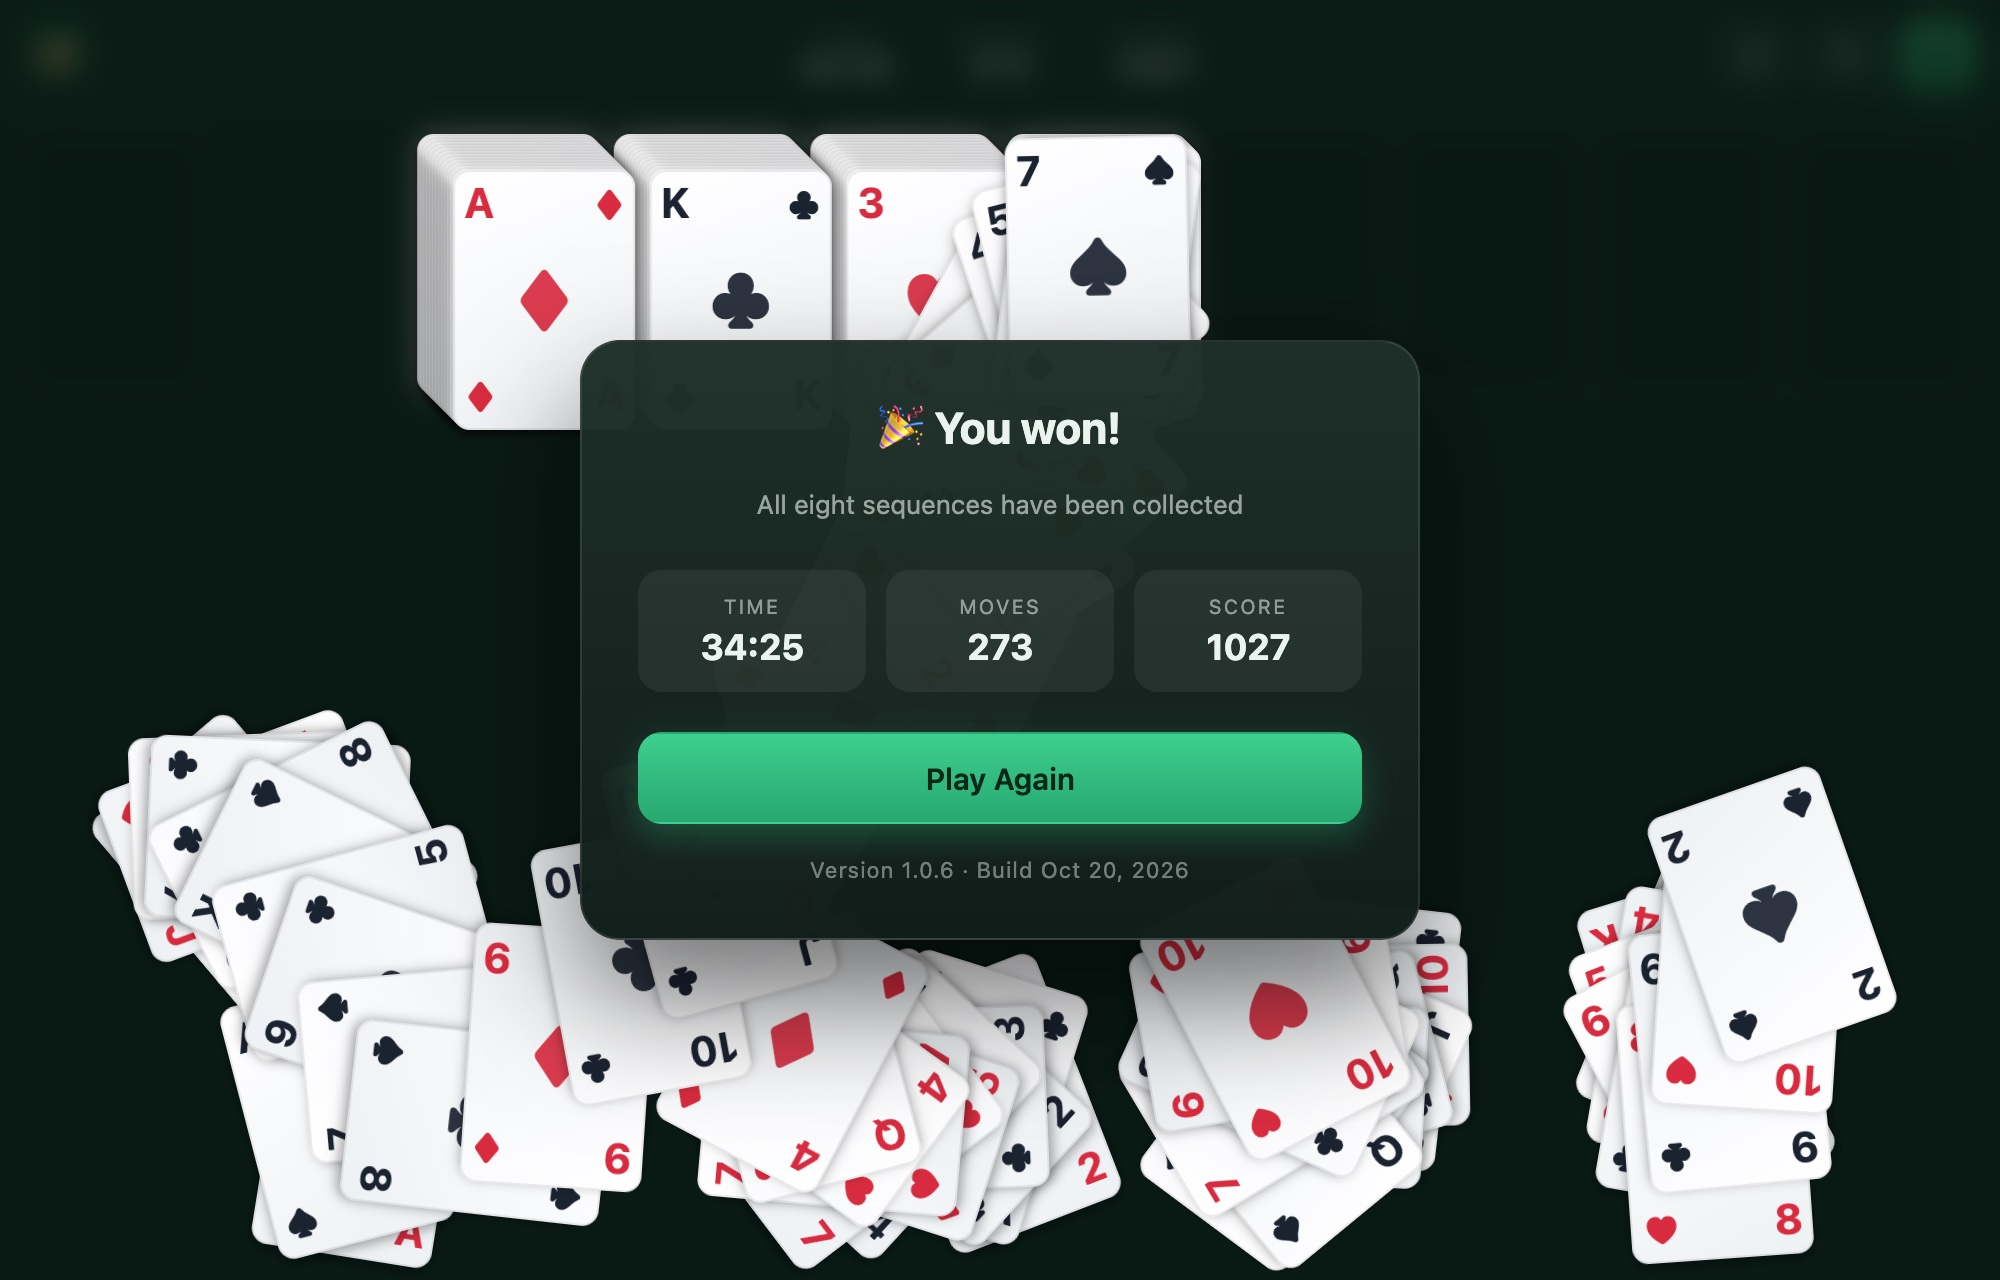
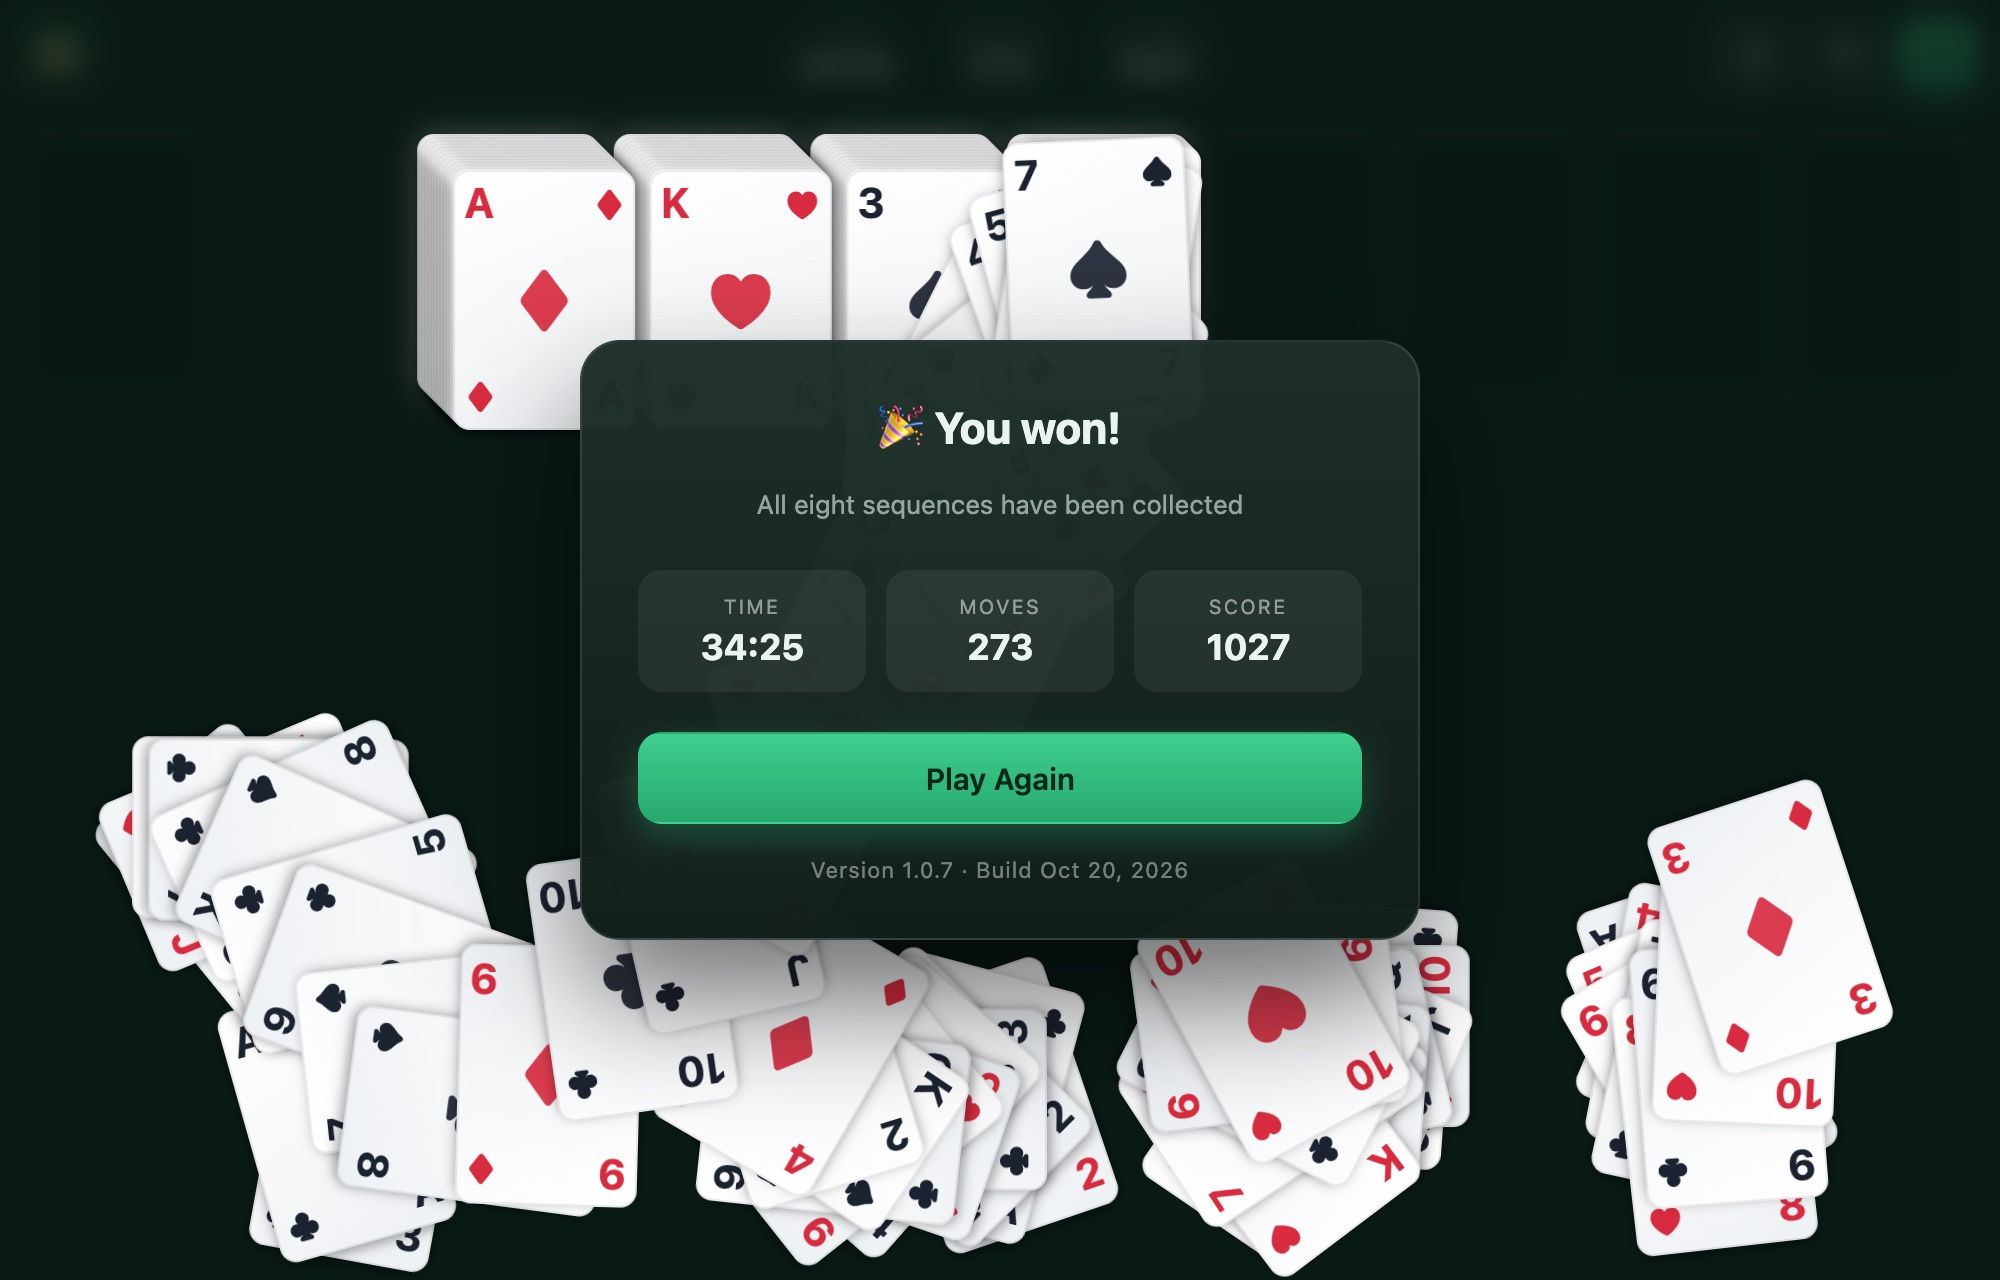
Release 1.0.7: lighter card dimming, safe area only when installed
- reduce the assist overlay from 34 % to 26 % so dimmed cards stay readable
- apply the top safe-area padding and the status bar strip only in
  installed PWAs (display-mode: standalone); DuckDuckGo reported a top
  inset in a normal tab, which doubled the header height
- version 1.0.7, service worker cache bumped to spider-sunrise-v9

diff --git a/style.css b/style.css
@@ -24,7 +24,7 @@ body {
   overflow-x: hidden;
   overflow-y: auto;
   overscroll-behavior-y: none;
-  padding: env(safe-area-inset-top) env(safe-area-inset-right) env(safe-area-inset-bottom) env(safe-area-inset-left);
+  padding: 0 env(safe-area-inset-right) env(safe-area-inset-bottom) env(safe-area-inset-left);
   font-family: -apple-system, BlinkMacSystemFont, "Segoe UI", Roboto, Helvetica, Arial, sans-serif;
   color: #eaf3ee;
   background-color: #081712;
@@ -67,10 +67,20 @@ body.menu-open #board {
   top: 0;
   left: 0;
   right: 0;
-  height: env(safe-area-inset-top);
+  height: 0;
   background: #15372b;
   pointer-events: none;
   z-index: 60;
+}
+
+@media (display-mode: standalone) {
+  body {
+    padding-top: env(safe-area-inset-top);
+  }
+
+  .statusbar {
+    height: env(safe-area-inset-top);
+  }
 }
 
 /* ---------- Top bar ---------- */
@@ -371,7 +381,7 @@ body.menu-open #board {
   content: "";
   position: absolute;
   inset: 0;
-  background: rgba(6, 16, 13, 0.34);
+  background: rgba(6, 16, 13, 0.26);
   pointer-events: none;
 }
 

diff --git a/sw.js b/sw.js
@@ -1,4 +1,4 @@
-const CACHE = "spider-sunrise-v8";
+const CACHE = "spider-sunrise-v9";
 
 const ASSETS = [
   "./",

diff --git a/version.js b/version.js
@@ -1,4 +1,4 @@
 window.APP_INFO = {
-  version: "1.0.6",
+  version: "1.0.7",
   build: "2026-10-20",
 };
